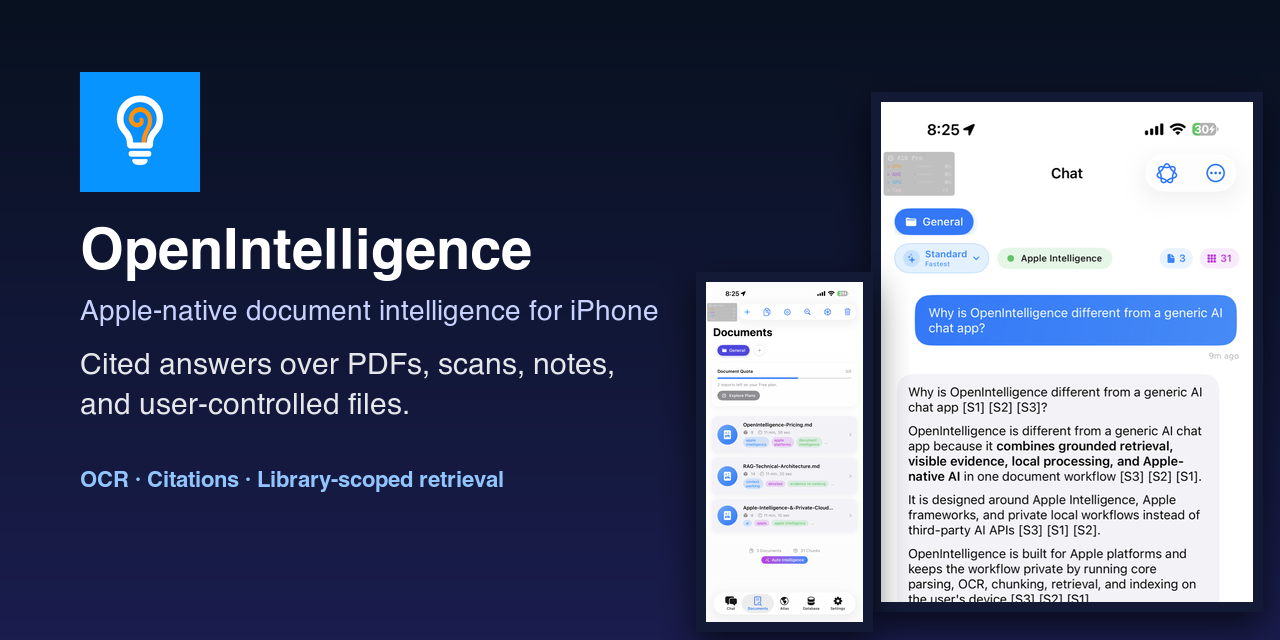
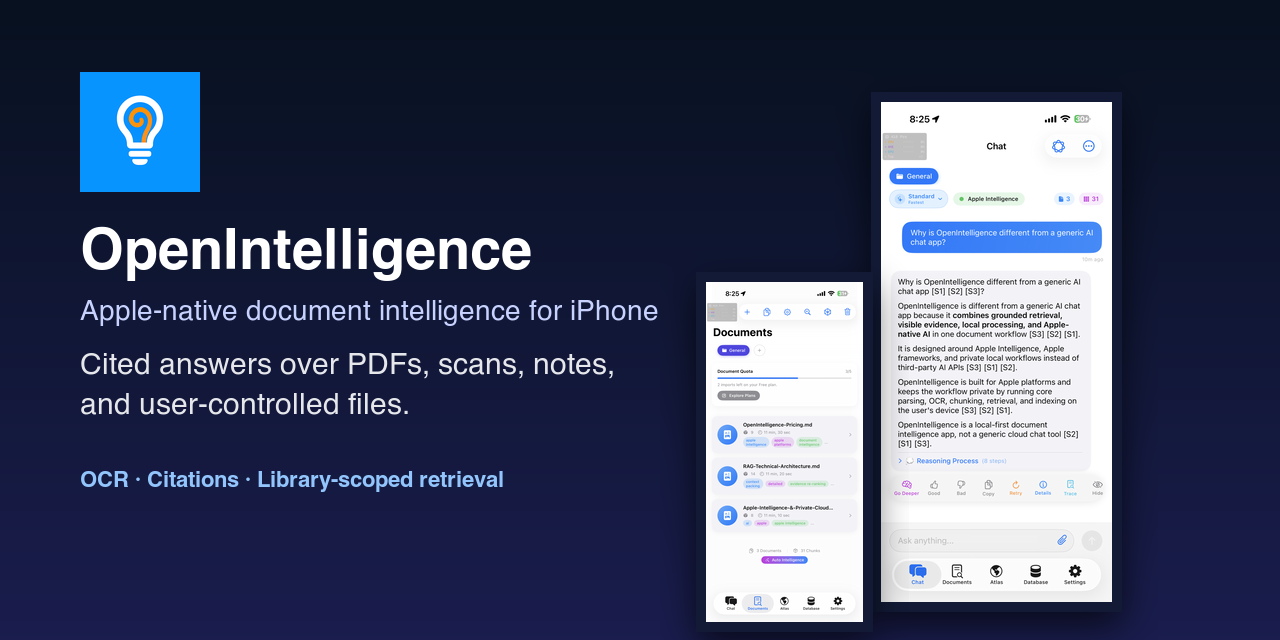
Refresh README product tour screenshots
Improves product tour readability by switching from a table to a step-by-step layout with clear headings and consistent image sizing.

Replaces an outdated cited-answer screenshot with a newer answer inspection image and updates social preview assets.

Changed region(s): [[0.6875, 0.1562, 1.0, 1.0]]

diff --git a/README.md b/README.md
@@ -42,34 +42,39 @@ OpenIntelligence is a proof-of-concept and portfolio project. It is not a finish
 
 ## Product Tour
 
-<p align="center"><em>Current UI from the App Store build.</em></p>
+<p align="center"><em>Current UI from the App Store build. Click any screenshot to open the full-size image.</em></p>
 
-<table>
-   <tr>
-      <td width="50%" valign="top">
-         <a href=".github/assets/screenshots/openintelligence-onboarding.png"><img src=".github/assets/screenshots/openintelligence-onboarding.png" alt="OpenIntelligence onboarding screen on iPhone showing document AI for PDFs scans images code and transcripts with source-backed answers" width="100%"></a><br>
-         <strong>Built for your files</strong><br>
-         Import PDFs, Office docs, scans, images, code, and transcripts into a source-backed document workflow.
-      </td>
-      <td width="50%" valign="top">
-         <a href=".github/assets/screenshots/openintelligence-ingestion-pipeline.png"><img src=".github/assets/screenshots/openintelligence-ingestion-pipeline.png" alt="OpenIntelligence ingestion pipeline on iPhone showing extraction chunking embeddings and indexing while building a searchable library" width="100%"></a><br>
-         <strong>Watch the pipeline come online</strong><br>
-         Extraction, chunking, embeddings, and indexing stay visible instead of disappearing behind a spinner.
-      </td>
-   </tr>
-   <tr>
-      <td width="50%" valign="top">
-         <a href=".github/assets/screenshots/openintelligence-cited-answer-cropped.png"><img src=".github/assets/screenshots/openintelligence-cited-answer-cropped.png" alt="OpenIntelligence cited answer screen on iPhone showing source-backed retrieval and visible evidence in chat" width="100%"></a><br>
-         <strong>Cited answers, not generic chat</strong><br>
-         Answers stay tied to evidence with citations, verification state, and deeper inspection hooks.
-      </td>
-      <td width="50%" valign="top">
-         <a href=".github/assets/screenshots/openintelligence-library.png"><img src=".github/assets/screenshots/openintelligence-library.png" alt="OpenIntelligence document library on iPhone showing scoped documents chunk counts and automatic intelligence tags" width="100%"></a><br>
-         <strong>Libraries stay scoped and inspectable</strong><br>
-         Organize documents into focused libraries with chunk counts, tags, and searchable structure.
-      </td>
-   </tr>
-</table>
+### 1) Bring in the documents you actually work with
+
+<p align="center">
+   <a href=".github/assets/screenshots/openintelligence-onboarding.png"><img src=".github/assets/screenshots/openintelligence-onboarding.png" alt="OpenIntelligence onboarding screen on iPhone showing support for PDFs, scans, images, code, notes, and transcripts" width="300"></a>
+</p>
+
+Import PDFs, Office docs, scans, images, code, notes, and transcripts into one document workflow instead of one generic chat box.
+
+### 2) Watch the system build the library
+
+<p align="center">
+   <a href=".github/assets/screenshots/openintelligence-ingestion-pipeline.png"><img src=".github/assets/screenshots/openintelligence-ingestion-pipeline.png" alt="OpenIntelligence ingestion pipeline on iPhone showing extraction, chunking, embeddings, and indexing" width="300"></a>
+</p>
+
+The pipeline stays visible while the app extracts content, runs OCR when needed, chunks documents, creates embeddings, and builds a searchable library.
+
+### 3) Ask a question and inspect the answer
+
+<p align="center">
+   <a href=".github/assets/screenshots/openintelligence-answer-inspection.png"><img src=".github/assets/screenshots/openintelligence-answer-inspection.png" alt="OpenIntelligence chat screen on iPhone showing inline citations, verified answer state, and actions for details and trace" width="320"></a>
+</p>
+
+Answers include inline citations like <code>[S1]</code>, <code>[S2]</code>, and <code>[S3]</code>, plus verification state and one-tap paths into details and trace views for deeper inspection.
+
+### 4) Keep everything organized inside focused libraries
+
+<p align="center">
+   <a href=".github/assets/screenshots/openintelligence-library.png"><img src=".github/assets/screenshots/openintelligence-library.png" alt="OpenIntelligence document library on iPhone showing scoped documents, chunk counts, and automatic intelligence tags" width="300"></a>
+</p>
+
+Documents stay grouped, tagged, and searchable inside focused libraries so the app answers from the material you actually mean.
 
 <p align="center"><a href="https://apps.apple.com/us/app/openintelligence/id6756559175">See the full App Store gallery</a></p>
 
